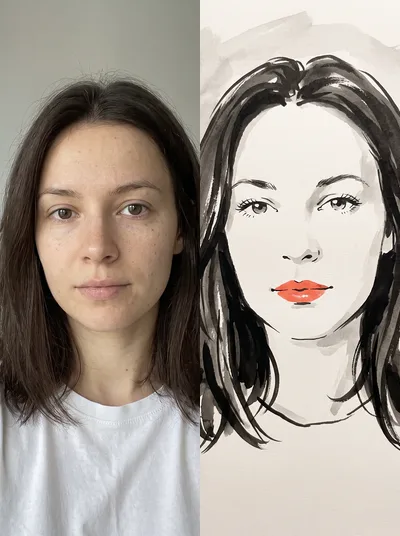
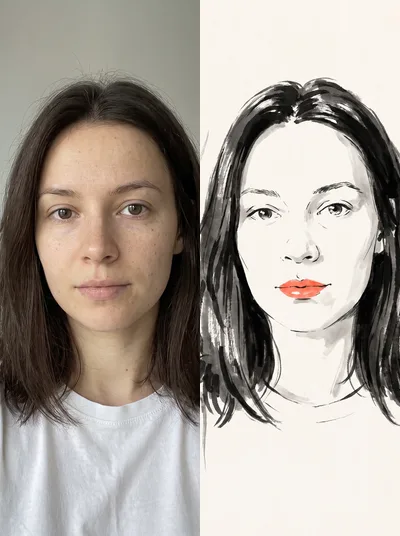
fix(332): 수묵 미인도가 원본 포즈·머리를 무시하고 프롬프트에 박힌 모습을 그리던 것
오너 신고: "수묵화는 왜 고개를 틀었음? 머리카락도 다르고?"

원인은 프롬프트에 포즈와 헤어가 하드코딩돼 있던 것이다:
  "long flowing straight hair ... three-quarter face view, subtle upward
   chin-tilt, long hair swept aside in one graceful arc"
원본은 묶은 머리에 정면인데 프롬프트가 "긴 생머리 + 3/4 측면 + 턱 들기" 를
강제하니 사진이 아니라 문구를 그리고 있었다.

332 는 매직 부스로 옮겨온 옛 인물 컨셉이라, 되돌렸던 330 과 같은 유형이다
(매직 부스는 어떤 사진이든 받는데 프롬프트는 특정 인물상을 지정).

→ 스타일(먹 붓질·마른붓·먹번짐, 피부는 맨종이, 코럴 레드 한 점)만 남기고
  포즈·헤어·프레이밍 지정을 전부 제거. 대신 "포즈·헤어·프레이밍·표정은
  전부 레퍼런스 사진에서 가져온다. 짧거나 묶은 머리면 그대로, 정면이면
  정면, 손을 들었으면 그 손을 그린다" 를 명시했다. 대상도 사람 전용에서
  사람/동물/사물/장면으로 넓혔다.

검증: 신고와 **같은 사진**으로 수정 전/후 비교.
 · 수정 전 — 고개 3/4 회전, 턱 들림, 긴 생머리, 맨어깨 (원본에 없는 것들)
 · 수정 후 — 정면, 묶은 머리와 잔머리, 검정 민소매까지 원본 그대로
썸네일도 새 프롬프트로 재생성.

sw v70 → v71.

Changed region(s): [[0.48, 0.0, 1.0, 1.0], [0.93, 0.0597, 1.0, 0.1194]]

diff --git a/public/sw.js b/public/sw.js
@@ -10,7 +10,7 @@
 // 새 버전 배포 시: 아래 VERSION 만 올리면 됨.
 // ============================================================
 
-const VERSION = "v70";
+const VERSION = "v71";
 const STATIC_CACHE = `rimikimi-static-${VERSION}`;
 const THUMB_CACHE = `rimikimi-thumbs-${VERSION}`;
 const DATA_CACHE = `rimikimi-data-${VERSION}`;
